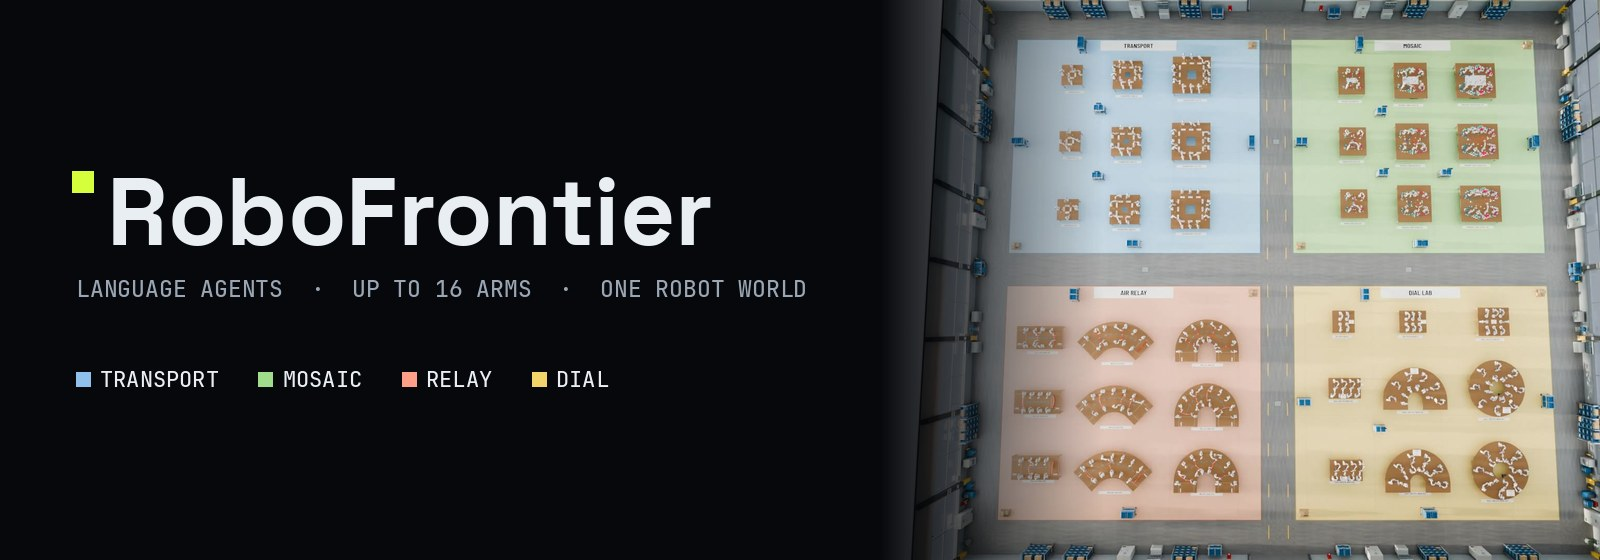
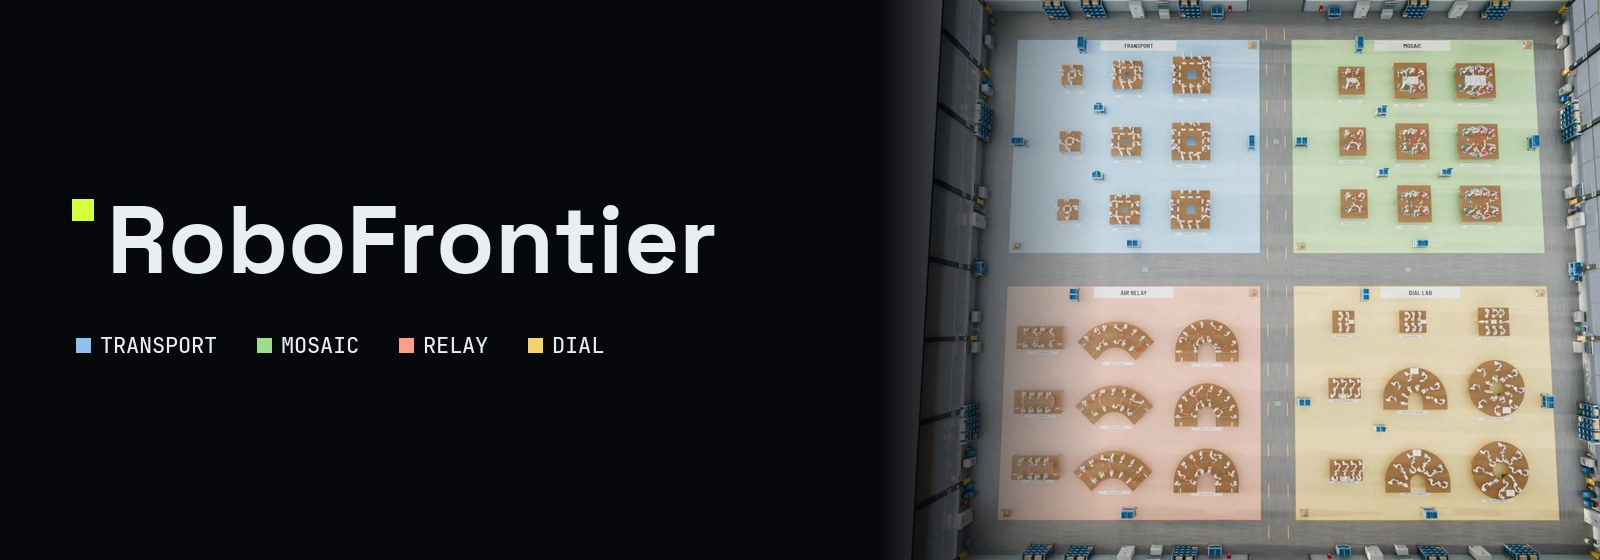
Show the project name once at the top of the README
The banner carries the wordmark, so the README drops its repeated
RoboFrontier heading, and the banner drops its tagline, which the
question and summary below already say.

diff --git a/scripts/site_media.py b/scripts/site_media.py
@@ -141,10 +141,10 @@ FAMILY_COLORS = [('Transport', (143, 193, 236)), ('Mosaic', (159, 220, 140)), ('
 
 
 def banner(film, path, width=1600, height=560, at_s=12):
-    """The README banner in the project page's style: the wordmark, tagline and family colors
-    on the left; the film's overhead view of all four Robo World zones on the right."""
+    """The README banner in the project page's style: the wordmark and family colors on the
+    left, the film's overhead view of all four Robo World zones on the right."""
     from PIL import Image, ImageDraw, ImageFont
-    bg, ink, dim, lime = (6, 8, 11), (233, 238, 243), (154, 166, 180), (212, 255, 58)
+    bg, ink, lime = (6, 8, 11), (233, 238, 243), (212, 255, 58)
     frame = Path(path).with_suffix('.frame.jpg')
     grab(film, at_s, frame, 1920)
     top = Image.open(frame).convert('RGB'); frame.unlink()
@@ -161,14 +161,14 @@ def banner(film, path, width=1600, height=560, at_s=12):
     draw = ImageDraw.Draw(image)
     display = ImageFont.truetype(str(FONTS/'SpaceGrotesk-Bold.ttf'), 96)
     mono = lambda size: ImageFont.truetype(str(FONTS/'JetBrainsMono-Medium.ttf'), size)
-    x, y = 72, 150
+    # Only the wordmark and the family colors: the README text below carries the tagline.
+    x, y = 72, 178
     draw.rectangle([x, y+21, x+21, y+42], fill=lime)
     draw.text((x+35, y), 'RoboFrontier', font=display, fill=ink)
-    draw.text((x+4, y+123), 'LANGUAGE AGENTS  ·  UP TO 16 ARMS  ·  ONE ROBOT WORLD', font=mono(23), fill=dim)
     x = 76
     for name, color in FAMILY_COLORS:
         label = name.upper()
-        draw.rectangle([x, 372, x+14, 386], fill=color); draw.text((x+24, 364), label, font=mono(22), fill=ink)
+        draw.rectangle([x, 338, x+14, 352], fill=color); draw.text((x+24, 330), label, font=mono(22), fill=ink)
         x += 24 + mono(22).getlength(label) + 40
     image.save(path, quality=88, optimize=True)
 

diff --git a/README.md b/README.md
@@ -1,8 +1,6 @@
 <div align="center">
 
-<img src="docs/media/readme/banner.jpg" alt="RoboFrontier: language agents, up to 16 arms, one robot world. Robo World from above: the Transport, Mosaic, Relay and Dial zones" width="100%">
-
-# RoboFrontier
+<img src="docs/media/readme/banner.jpg" alt="RoboFrontier. Robo World from above: the Transport, Mosaic, Relay and Dial zones" width="100%">
 
 **Can language models run a robot world?**
 
